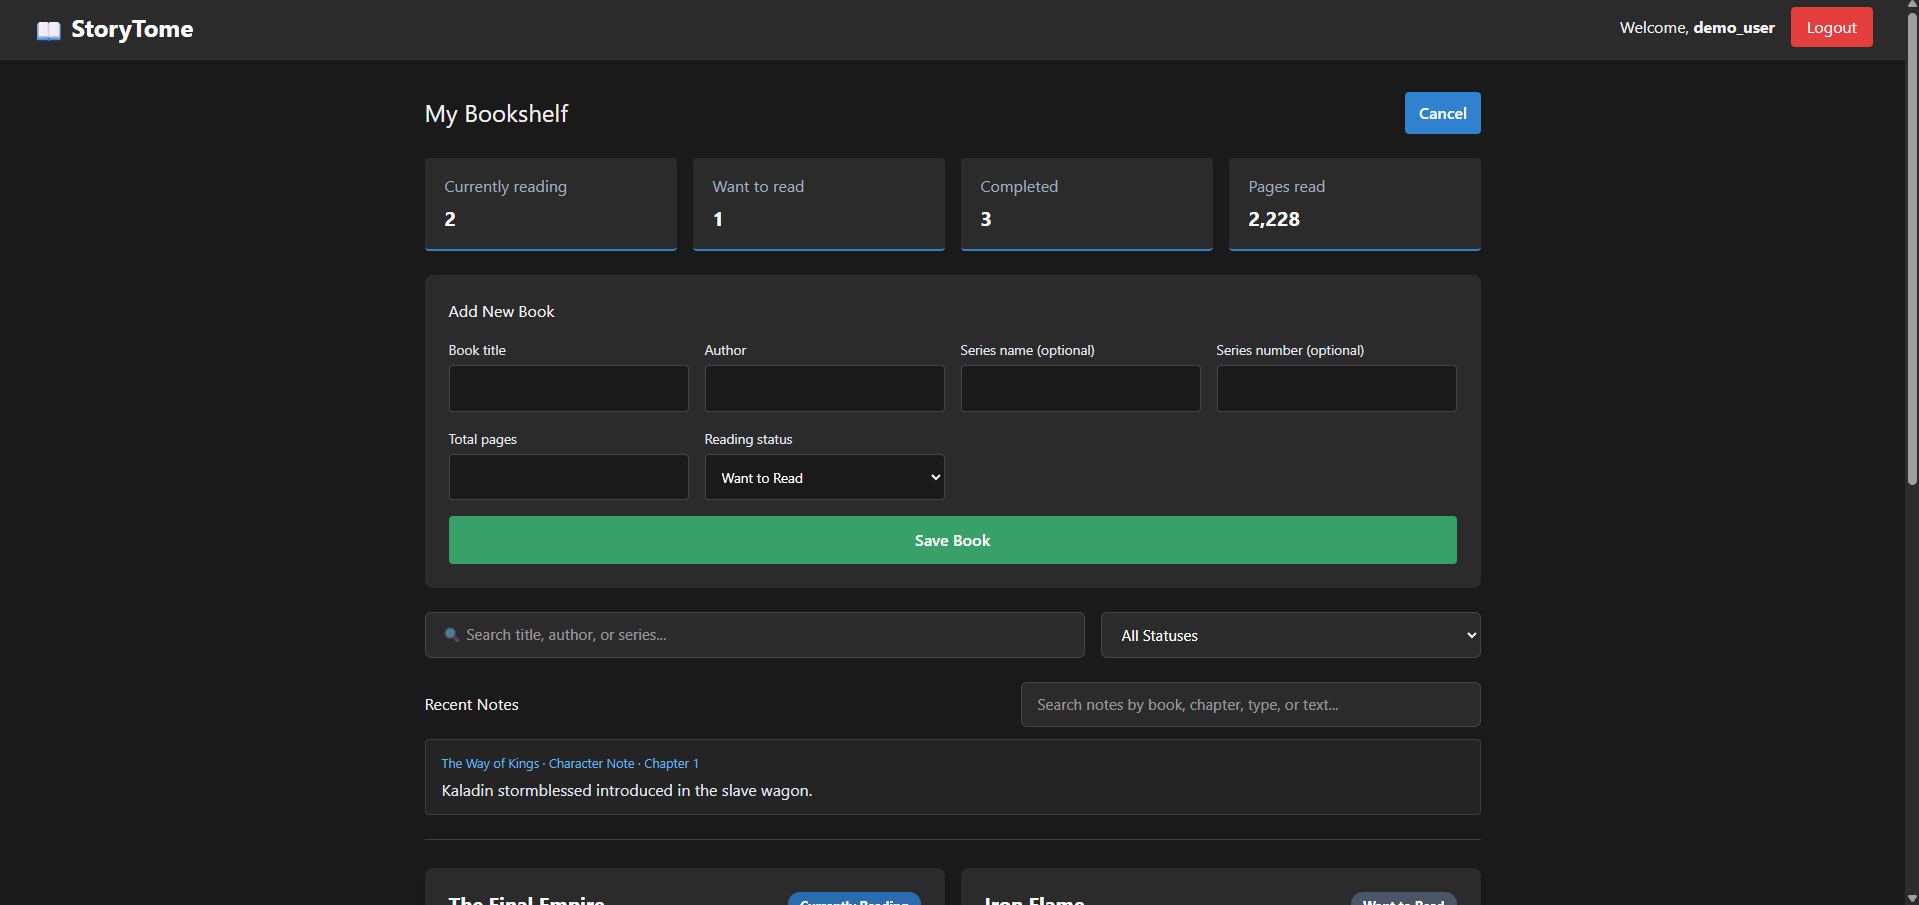
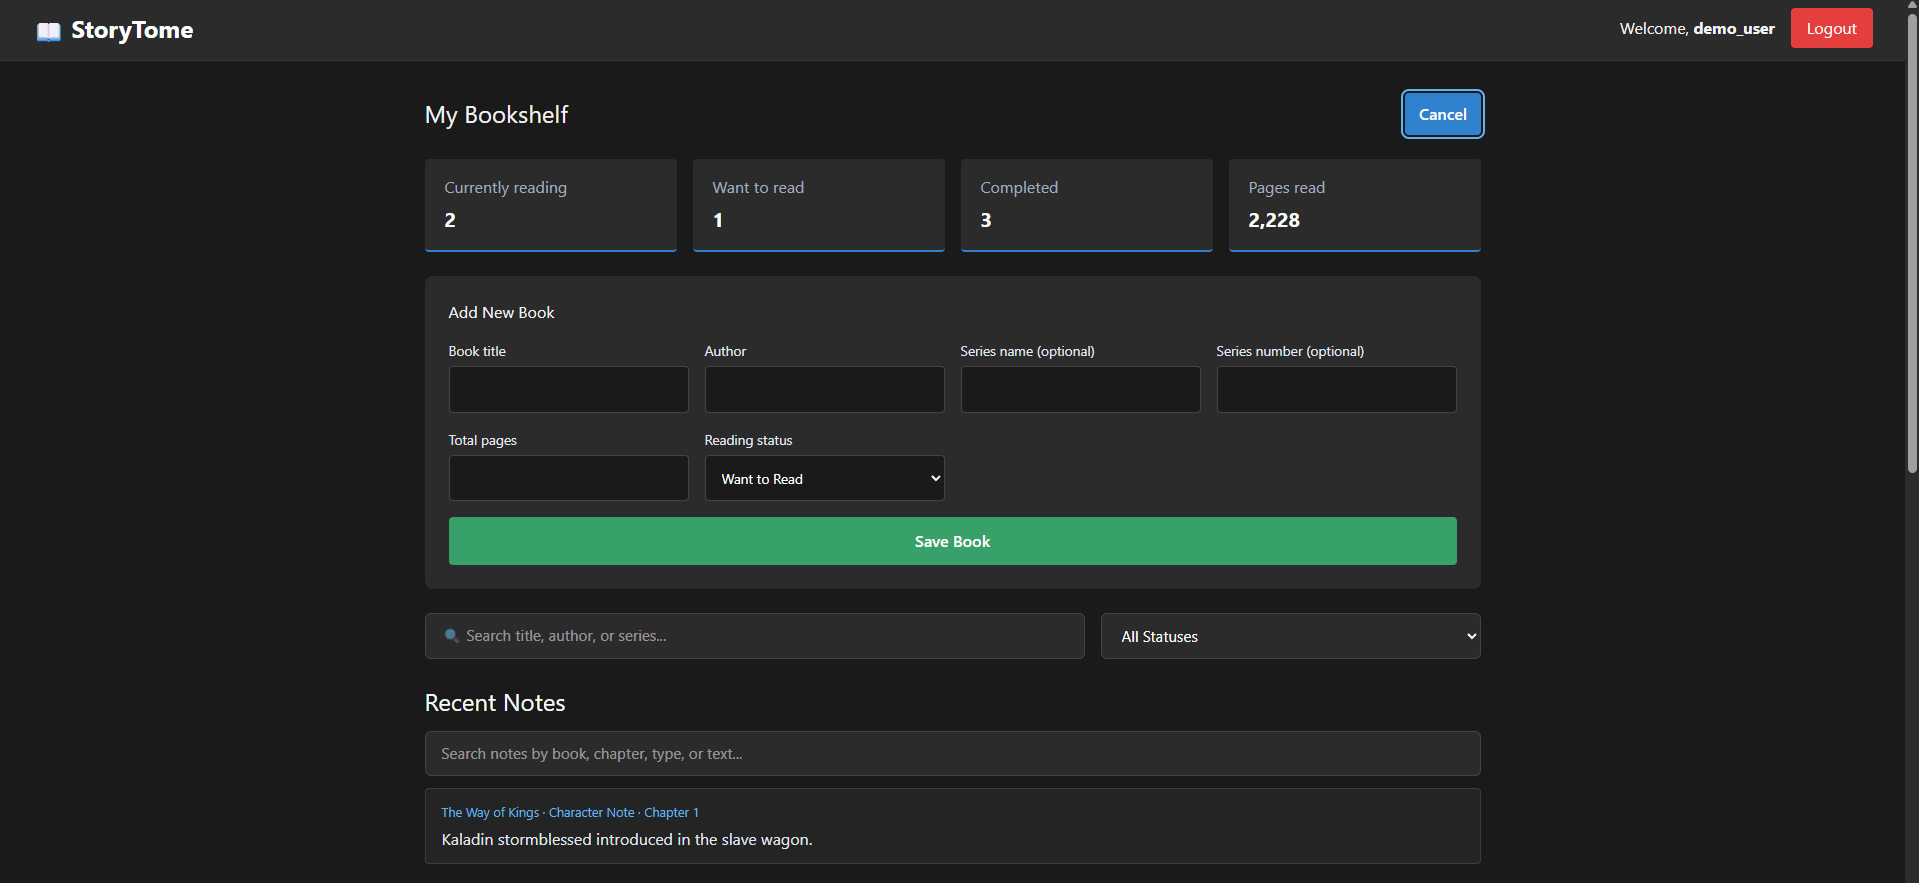
fix: Update README for PostgreSQL support and adjust database URI in .env.example; enhance Dashboard styles and add new screenshots

diff --git a/client/src/pages/Dashboard.css b/client/src/pages/Dashboard.css
@@ -156,19 +156,19 @@
 }
 
 .recent-notes__heading {
-  display: flex;
-  justify-content: space-between;
-  align-items: center;
-  gap: 1rem;
+  display: block;
   margin-bottom: 0.75rem;
 }
 
 .recent-notes__heading h3 {
-  margin-bottom: 0;
+  margin-bottom: 0.75rem;
+  color: #f7fafc;
+  font-size: 1.5rem;
+  font-weight: 400;
 }
 
 .dashboard-input--search-notes {
-  max-width: 460px;
+  max-width: none;
   padding: 0.65rem 1rem;
   border-radius: 6px;
   background: #2b2b2b;

diff --git a/README.md b/README.md
@@ -140,14 +140,14 @@ Copy-Item .env.example .env
 pipenv shell
 ```
 
-Set `SECRET_KEY` in `server/.env` to a unique random value, then enter the Pipenv shell in that terminal. Run the remaining backend commands from this active shell. The default database is SQLite at `server/instance/storytome.db`; set `DATABASE_URI` in `.env` if you want to use another supported SQLAlchemy database.
+Set `SECRET_KEY` in `server/.env` to a unique random value, then enter the Pipenv shell in that terminal. Run the remaining backend commands from this active shell. The default database is SQLite at `server/instance/storytome.db`. To use PostgreSQL, replace `DATABASE_URI` in `.env` with your PostgreSQL connection string before starting the API.
 
 For a fresh database, run the migration and seed the local demo account:
 
 ```powershell
 flask --app app db upgrade
 python seed.py
-flask --app app run --port 5555
+python app.py
 ```
 
 If the database already has tables created with `db.create_all()` or an earlier seed script, back it up and inspect its schema before applying migrations. When its schema matches the initial revision, mark it with `flask --app app db stamp head` instead of running `db upgrade` against those existing tables.
